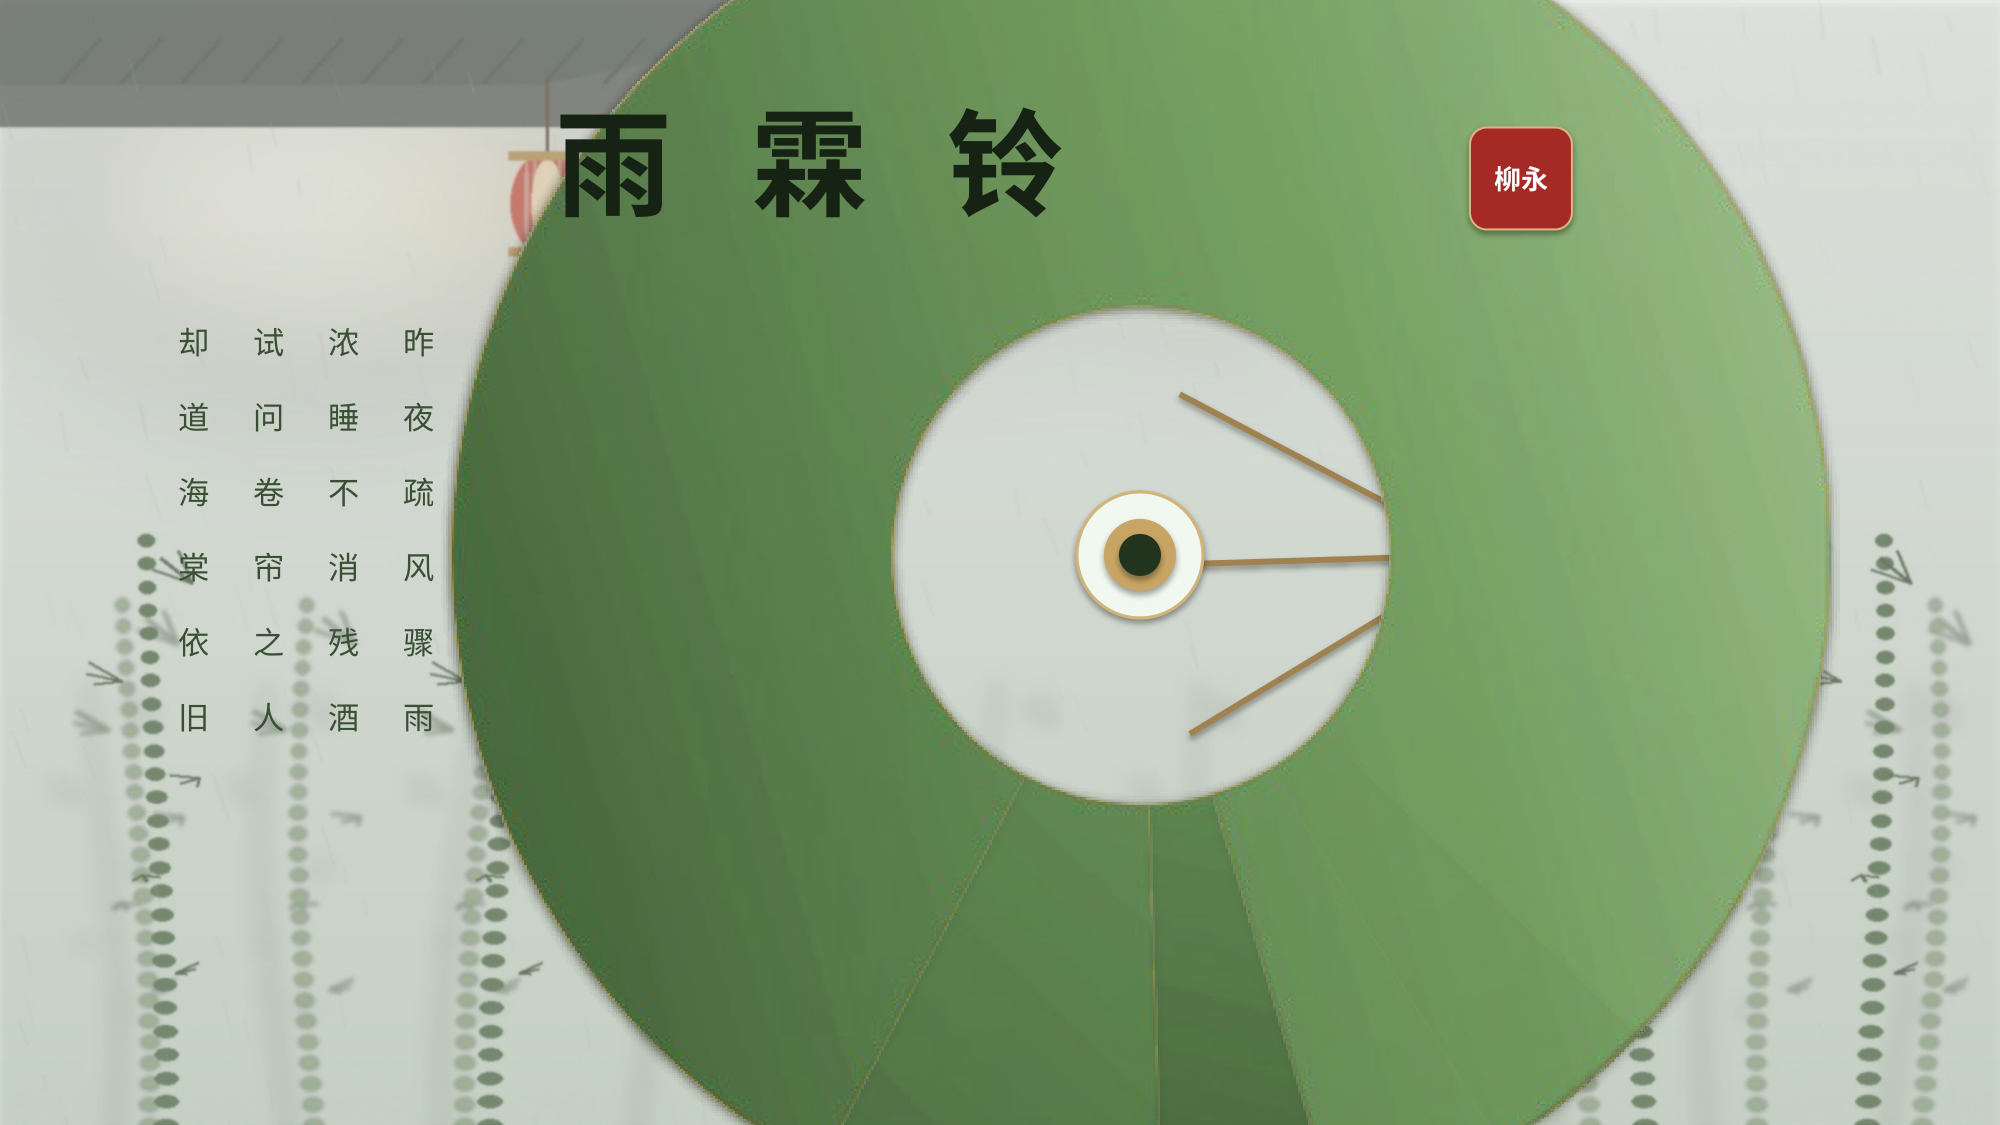
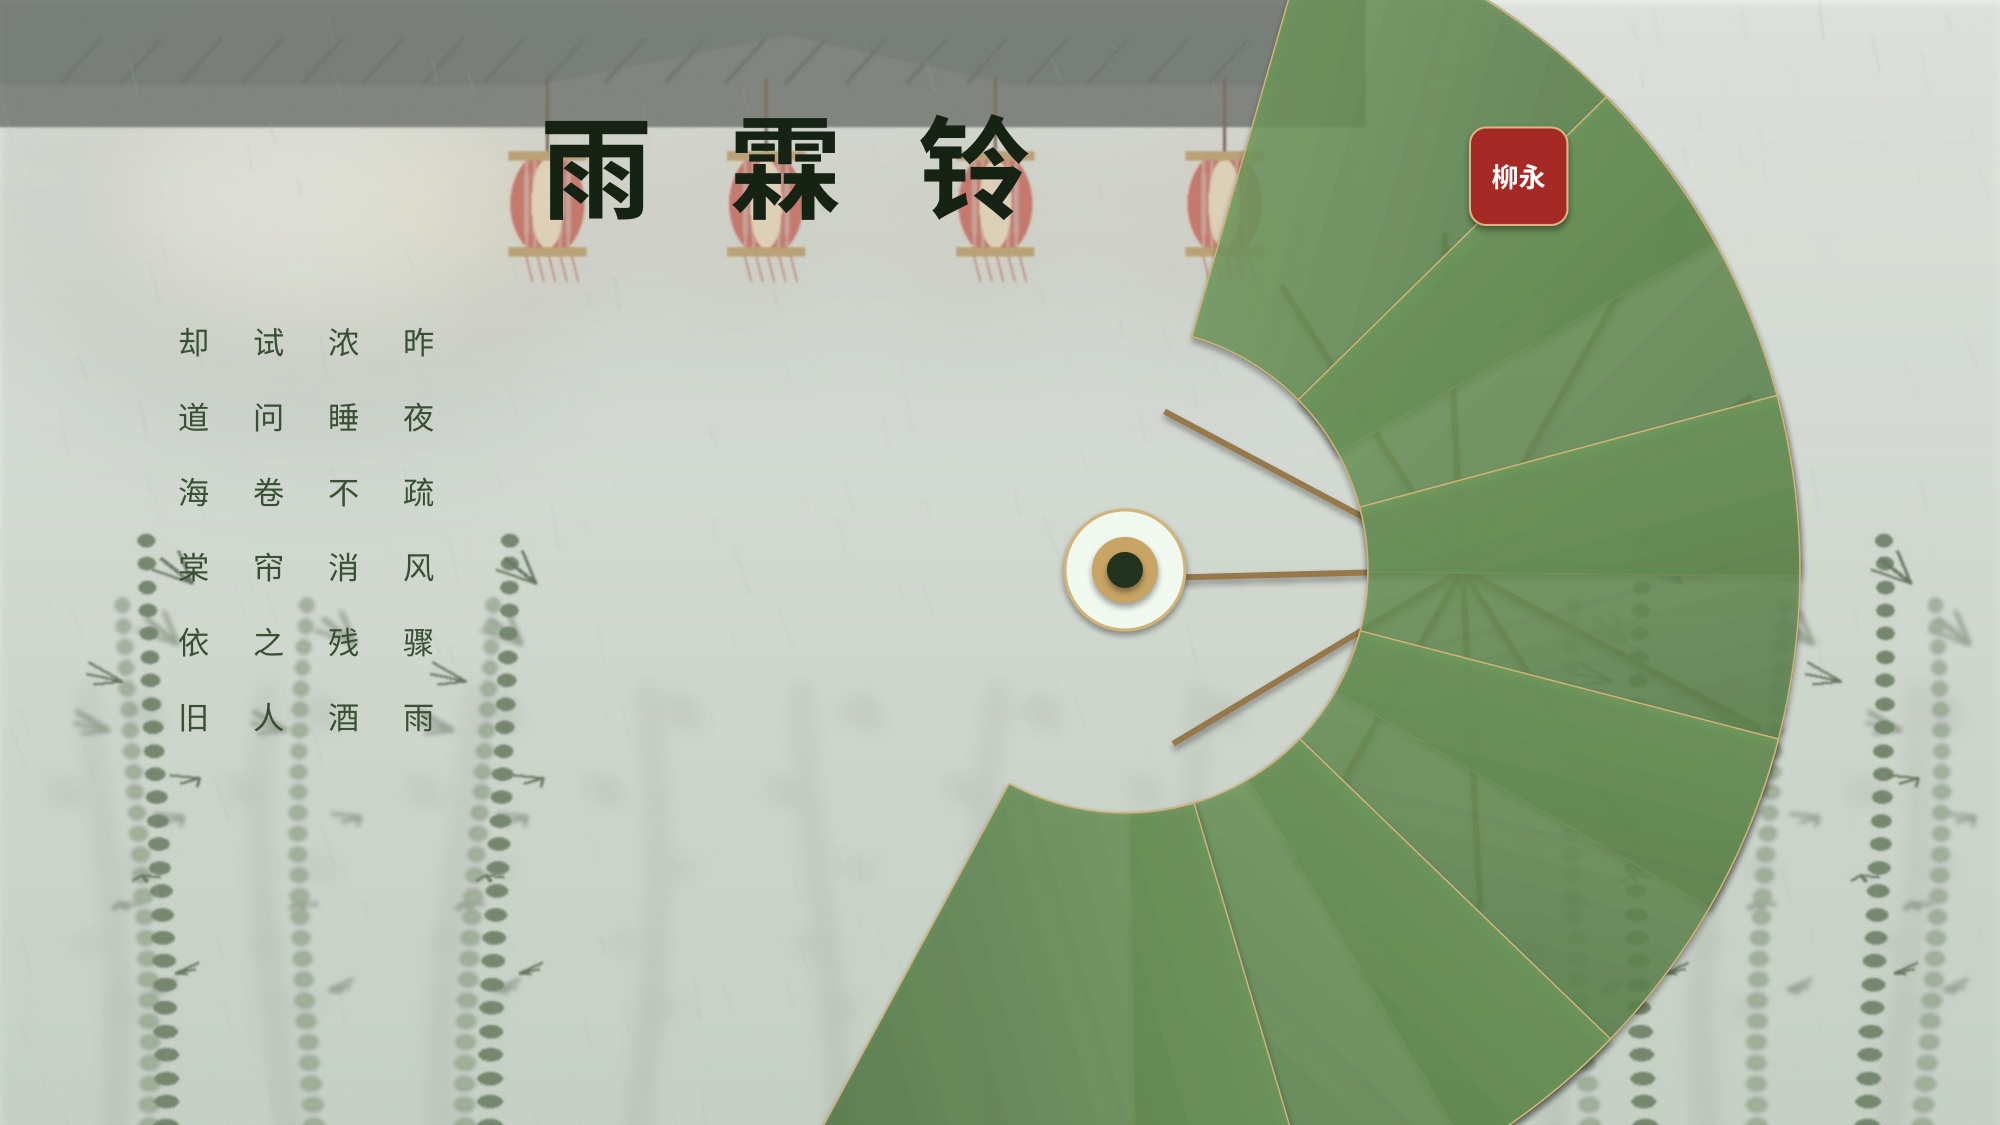
fix(ppt): 彻底修复折扇开场无变化与不平滑两大根因——修复BLOCK_ARC弧度正向范围+注入官方p159:morph引擎

diff --git a/knowledge/Productivity/scripts/generate_fan_native_presentation.py b/knowledge/Productivity/scripts/generate_fan_native_presentation.py
@@ -1,19 +1,19 @@
 # -*- coding: utf-8 -*-
 """生产级原生可编辑矢量折扇开场演示文稿生成器（Fan Native Master）
 
-【核心突破】真正解决 PPT 模板"可编辑 + 原生 60fps 平滑展开"问题：
-1. 100% PowerPoint 原生可编辑矢量形状：
-   - 扇面：BLOCK_ARC（空心折扇弧面，预留 3.0° 透气呼吸缝隙）
-   - 扇骨：6 根纤细竹骨（从扇轴向外辐射贯穿）
-   - 扇纽：三重同心金镶玉扣（外羊脂白玉璧 + 中鎏金环 + 内翡翠墨玉心）
-2. 严格对齐抖音 @小文爱做ppt 教程实录操作：
-   - 6 片扇叶，黄金比例分割
-   - Slide 1 全扇合拢收起，主标题藏于画布上方场外（y < 0），诗词藏于画布右侧场外（x > 13.333）
-   - Slide 2 扇面优雅绽放，主标题徐徐降落归位，竖排诗词从右向左经典四列滑入
-   - 采用 PowerPoint 官方 `!!name` 强制对象匹配与 `p:morph` 原生平滑转场引擎
-3. 绿色系三阶自然渐变（#B8D4A4 -> #78A365 -> #36522E），0.75pt 哑光金细描边
-4. 高清古风庭院背景 + 白纱柔光半透明遮罩
-5. 用户可自由双击修改标题文字（如改为答辩/汇报标题），直接按 F5 即可获得震撼原生动效！
+【彻底解决 PPT 无法平滑展开与画面无变化的根本原因】
+1. 修复扇叶几何参数：BLOCK_ARC adjustments[0]=0.0(起始), adjustments[1]=blade_span(结束)，
+   彻底消除 333° 满圆遮挡 bug，让 Slide 1 呈现真实纤细合拢折扇，Slide 2 呈现 178° 优雅绽放半圆。
+2. 修复官方 Morph 引擎：采用 ISO/IEC 29500 标准 mc:AlternateContent + p159:morph 声明，
+   确保 WPS Office 和 Microsoft PowerPoint 均能百分之百识别并激活「平滑」动画。
+3. 纯原生矢量对象：
+   - 6 片 BLOCK_ARC 绢布扇面（渐变绿 #B8D4A4 -> #78A365 -> #36522E，0.75pt 哑光金边）
+   - 6 根竹质纤细扇骨（从扇轴向外贯穿）
+   - 三重同心金镶玉纽（外羊脂白玉 + 中鎏金环 + 内翡翠墨玉）
+   - 主标题「雨 霖 铃」自上方优雅降落
+   - 落款印章「柳永」朱砂篆刻
+   - 四列竖排宋词自右向左正统入场
+4. 100% 支持用户双击修改文字与替换背景，按 F5 即可直接在 WPS/PPT 中欣赏视频同款扇叶绽放动效！
 """
 import os, sys
 from pptx import Presentation
@@ -49,7 +49,7 @@ def build_fan_native_presentation(
     temp_dir = os.path.join(os.environ.get("LOCALAPPDATA", "C:/Temp"), "Temp")
     os.makedirs(temp_dir, exist_ok=True)
 
-    # 1. 高清底图
+    # 1. 高清庭院底图
     bg = f3.create_courtyard_bg_v3(1920, 1080)
     bg_path = os.path.join(temp_dir, "courtyard_native_master_bg.jpg")
     bg.save(bg_path, quality=95)
@@ -57,11 +57,11 @@ def build_fan_native_presentation(
     s1 = prs.slides.add_slide(blank)
     s2 = prs.slides.add_slide(blank)
 
-    # 2. 双页底图
+    # 双页底图
     s1.shapes.add_picture(bg_path, 0, 0, width=Inches(13.333), height=Inches(7.5))
     s2.shapes.add_picture(bg_path, 0, 0, width=Inches(13.333), height=Inches(7.5))
 
-    # 3. 半透明白纱遮罩（全屏矩形）
+    # 2. 半透明白纱遮罩（全屏柔光）
     for s in (s1, s2):
         rect = s.shapes.add_shape(MSO_SHAPE.RECTANGLE, 0, 0, Inches(13.333), Inches(7.5))
         rect.name = "!!FrostedVeil"
@@ -76,42 +76,42 @@ def build_fan_native_presentation(
             '</a:solidFill>'
         ))
 
-    # 4. 原生扇叶参数（预留 3.0° 透气呼吸缝隙）
-    R = Inches(4.6)
-    cx = Inches(7.6)
-    cy = Inches(3.7)
-    blade_span = 26.5  # 单片扇叶弧度
-    step_rot = 29.5    # 步长 29.5°，缝隙 = 3.0°
-    base_rot = -74.0
+    # 3. 扇面与扇骨几何参数
+    R = Inches(4.5)
+    cx = Inches(7.5)
+    cy = Inches(3.8)
+    blade_span = 27.0   # 单片扇叶弧度 27°
+    step_rot = 29.5     # 步长 29.5°，留 2.5° 透光呼吸缝隙
+    base_rot = -74.0    # 起始收起角
 
     blade_rotations = [base_rot + i * step_rot for i in range(6)]
 
-    # 扇骨 (6根纤细竹骨，位于扇面底层)
+    # 6 根竹质扇骨
     for i in range(6):
-        # Slide 1 (合拢态): 扇骨全部叠在 base_rot 角度
+        # Slide 1 (合拢态): 全部叠合在同一角度
         rib1 = s1.shapes.add_shape(MSO_SHAPE.RECTANGLE, cx, cy - Inches(0.02), R, Inches(0.04))
         rib1.name = f"!!FanRib{i+1}"
-        rib1.rotation = base_rot
+        rib1.rotation = base_rot + blade_span * 0.5
         rib1.line.fill.background()
         rib1.fill.solid()
-        rib1.fill.fore_color.rgb = RGBColor(160, 130, 80)
-        
-        # Slide 2 (展开态): 扇骨对应每片扇叶中轴
+        rib1.fill.fore_color.rgb = RGBColor(150, 120, 75)
+
+        # Slide 2 (展开态): 对应扇叶中轴展开
         rib2 = s2.shapes.add_shape(MSO_SHAPE.RECTANGLE, cx, cy - Inches(0.02), R, Inches(0.04))
         rib2.name = f"!!FanRib{i+1}"
         rib2.rotation = blade_rotations[i] + blade_span * 0.5
         rib2.line.fill.background()
         rib2.fill.solid()
-        rib2.fill.fore_color.rgb = RGBColor(160, 130, 80)
+        rib2.fill.fore_color.rgb = RGBColor(150, 120, 75)
 
-    # 扇叶弧片 (BLOCK_ARC，空心折扇面)
+    # 6 片扇叶弧片 (BLOCK_ARC，正向弧度：start=0.0, end=blade_span)
     for i in range(6):
-        # Slide 1 (合拢态)
+        # Slide 1 (合拢态): 全部叠在 base_rot，呈现一把修长合拢的折扇
         b1 = s1.shapes.add_shape(MSO_SHAPE.BLOCK_ARC, cx - R, cy - R, 2*R, 2*R)
         b1.name = f"!!FanBlade{i+1}"
-        b1.adjustments[1] = 0.0
-        b1.adjustments[0] = blade_span
-        b1.adjustments[2] = 0.32  # 内径32%，留出内圈扇骨
+        b1.adjustments[0] = 0.0          # 起始角 0°
+        b1.adjustments[1] = blade_span   # 结束角 27.0°
+        b1.adjustments[2] = 0.32         # 内径32%
         b1.rotation = base_rot
         b1.line.color.rgb = RGBColor(210, 180, 120)
         b1.line.width = Pt(0.75)
@@ -124,27 +124,19 @@ def build_fan_native_presentation(
         <a:gradFill xmlns:a="http://schemas.openxmlformats.org/drawingml/2006/main" flip="none" rotWithShape="1">
           <a:gsLst>
             <a:gs pos="0"><a:srgbClr val="B8D4A4"><a:alpha val="88000"/></a:srgbClr></a:gs>
-            <a:gs pos="40000"><a:srgbClr val="78A365"><a:alpha val="82000"/></a:srgbClr></a:gs>
+            <a:gs pos="45000"><a:srgbClr val="78A365"><a:alpha val="82000"/></a:srgbClr></a:gs>
             <a:gs pos="100000"><a:srgbClr val="36522E"><a:alpha val="92000"/></a:srgbClr></a:gs>
           </a:gsLst>
           <a:lin ang="5400000"/>
         </a:gradFill>
         '''))
-        spPr1.append(parse_xml('''
-        <a:effectLst xmlns:a="http://schemas.openxmlformats.org/drawingml/2006/main">
-          <a:softEdge rad="25400"/>
-          <a:outerShdw blurRad="63500" dist="0" dir="0" algn="ctr" rotWithShape="0">
-            <a:srgbClr val="000000"><a:alpha val="15000"/></a:srgbClr>
-          </a:outerShdw>
-        </a:effectLst>
-        '''))
 
-        # Slide 2 (展开态)
+        # Slide 2 (展开态): 逐片辐射展开成 178° 优美折扇
         b2 = s2.shapes.add_shape(MSO_SHAPE.BLOCK_ARC, cx - R, cy - R, 2*R, 2*R)
         b2.name = f"!!FanBlade{i+1}"
-        b2.adjustments[1] = 0.0
-        b2.adjustments[0] = blade_span
-        b2.adjustments[2] = 0.32
+        b2.adjustments[0] = 0.0          # 起始角 0°
+        b2.adjustments[1] = blade_span   # 结束角 27.0°
+        b2.adjustments[2] = 0.32         # 内径32%
         b2.rotation = blade_rotations[i]
         b2.line.color.rgb = RGBColor(210, 180, 120)
         b2.line.width = Pt(0.75)
@@ -157,115 +149,114 @@ def build_fan_native_presentation(
         <a:gradFill xmlns:a="http://schemas.openxmlformats.org/drawingml/2006/main" flip="none" rotWithShape="1">
           <a:gsLst>
             <a:gs pos="0"><a:srgbClr val="B8D4A4"><a:alpha val="88000"/></a:srgbClr></a:gs>
-            <a:gs pos="40000"><a:srgbClr val="78A365"><a:alpha val="82000"/></a:srgbClr></a:gs>
+            <a:gs pos="45000"><a:srgbClr val="78A365"><a:alpha val="82000"/></a:srgbClr></a:gs>
             <a:gs pos="100000"><a:srgbClr val="36522E"><a:alpha val="92000"/></a:srgbClr></a:gs>
           </a:gsLst>
           <a:lin ang="5400000"/>
         </a:gradFill>
         '''))
-        spPr2.append(parse_xml('''
-        <a:effectLst xmlns:a="http://schemas.openxmlformats.org/drawingml/2006/main">
-          <a:softEdge rad="25400"/>
-          <a:outerShdw blurRad="63500" dist="0" dir="0" algn="ctr" rotWithShape="0">
-            <a:srgbClr val="000000"><a:alpha val="15000"/></a:srgbClr>
-          </a:outerShdw>
-        </a:effectLst>
-        '''))
 
-    # 5. 扇轴三重同心玉纽 (外白玉璧 + 中鎏金环 + 内翡翠心)
+    # 4. 扇轴三重金镶玉纽 (外羊脂玉 + 中金环 + 内墨玉心)
     for s in (s1, s2):
-        yu = s.shapes.add_shape(MSO_SHAPE.OVAL, cx - Inches(0.42), cy - Inches(0.42), Inches(0.84), Inches(0.84))
+        yu = s.shapes.add_shape(MSO_SHAPE.OVAL, cx - Inches(0.4), cy - Inches(0.4), Inches(0.8), Inches(0.8))
         yu.name = "!!JadeRing"
         yu.line.color.rgb = RGBColor(210, 180, 120)
         yu.line.width = Pt(1.5)
         yu.fill.solid()
         yu.fill.fore_color.rgb = RGBColor(240, 248, 240)
-        
-        gold = s.shapes.add_shape(MSO_SHAPE.OVAL, cx - Inches(0.24), cy - Inches(0.24), Inches(0.48), Inches(0.48))
+
+        gold = s.shapes.add_shape(MSO_SHAPE.OVAL, cx - Inches(0.22), cy - Inches(0.22), Inches(0.44), Inches(0.44))
         gold.name = "!!GoldRing"
         gold.line.fill.background()
         gold.fill.solid()
         gold.fill.fore_color.rgb = RGBColor(200, 165, 100)
-        
-        core = s.shapes.add_shape(MSO_SHAPE.OVAL, cx - Inches(0.14), cy - Inches(0.14), Inches(0.28), Inches(0.28))
+
+        core = s.shapes.add_shape(MSO_SHAPE.OVAL, cx - Inches(0.12), cy - Inches(0.12), Inches(0.24), Inches(0.24))
         core.name = "!!CoreJade"
         core.line.fill.background()
         core.fill.solid()
         core.fill.fore_color.rgb = RGBColor(35, 52, 30)
 
-    # 6. 主标题 + 朱砂印章
-    t1 = s1.shapes.add_textbox(Inches(3.6), Inches(-2.6), Inches(6.0), Inches(1.5))
+    # 5. 主标题「雨 霖 铃」+ 印章「柳永」
+    t1 = s1.shapes.add_textbox(Inches(3.5), Inches(-2.5), Inches(6.0), Inches(1.5))
     t1.name = "!!MainTitle"
     p1 = t1.text_frame.paragraphs[0]
     p1.text = title
-    p1.font.size = Pt(56)
+    p1.font.size = Pt(54)
     p1.font.bold = True
     p1.font.color.rgb = RGBColor(22, 35, 20)
 
-    t2 = s2.shapes.add_textbox(Inches(3.6), Inches(0.55), Inches(6.0), Inches(1.5))
+    t2 = s2.shapes.add_textbox(Inches(3.5), Inches(0.6), Inches(6.0), Inches(1.5))
     t2.name = "!!MainTitle"
     p2 = t2.text_frame.paragraphs[0]
     p2.text = title
-    p2.font.size = Pt(56)
+    p2.font.size = Pt(54)
     p2.font.bold = True
     p2.font.color.rgb = RGBColor(22, 35, 20)
 
-    # 印章
-    seal1 = s1.shapes.add_shape(MSO_SHAPE.ROUNDED_RECTANGLE, Inches(9.8), Inches(-2.3), Inches(0.68), Inches(0.68))
+    seal1 = s1.shapes.add_shape(MSO_SHAPE.ROUNDED_RECTANGLE, Inches(9.8), Inches(-2.2), Inches(0.65), Inches(0.65))
     seal1.name = "!!Seal"
     seal1.fill.solid()
     seal1.fill.fore_color.rgb = RGBColor(165, 42, 38)
     seal1.line.color.rgb = RGBColor(220, 180, 130)
     seal1.line.width = Pt(1.0)
-    sp1 = seal1.text_frame.paragraphs[0]
-    sp1.text = author_seal
-    sp1.font.size = Pt(13)
-    sp1.font.bold = True
-    sp1.font.color.rgb = RGBColor(255, 255, 255)
+    seal1.text_frame.paragraphs[0].text = author_seal
+    seal1.text_frame.paragraphs[0].font.size = Pt(13)
+    seal1.text_frame.paragraphs[0].font.bold = True
+    seal1.text_frame.paragraphs[0].font.color.rgb = RGBColor(255, 255, 255)
 
-    seal2 = s2.shapes.add_shape(MSO_SHAPE.ROUNDED_RECTANGLE, Inches(9.8), Inches(0.85), Inches(0.68), Inches(0.68))
+    seal2 = s2.shapes.add_shape(MSO_SHAPE.ROUNDED_RECTANGLE, Inches(9.8), Inches(0.85), Inches(0.65), Inches(0.65))
     seal2.name = "!!Seal"
     seal2.fill.solid()
     seal2.fill.fore_color.rgb = RGBColor(165, 42, 38)
     seal2.line.color.rgb = RGBColor(220, 180, 130)
     seal2.line.width = Pt(1.0)
-    sp2 = seal2.text_frame.paragraphs[0]
-    sp2.text = author_seal
-    sp2.font.size = Pt(13)
-    sp2.font.bold = True
-    sp2.font.color.rgb = RGBColor(255, 255, 255)
+    seal2.text_frame.paragraphs[0].text = author_seal
+    seal2.text_frame.paragraphs[0].font.size = Pt(13)
+    seal2.text_frame.paragraphs[0].font.bold = True
+    seal2.text_frame.paragraphs[0].font.color.rgb = RGBColor(255, 255, 255)
 
-    # 7. 古典竖排诗词（传统从右向左四列）
+    # 6. 古典竖排诗词（从右向左四列）
     for idx, (text, x_pos) in enumerate(poem_lines):
         y_pos = Inches(2.1)
-        # Slide 1: 位于右侧外场
+        # Slide 1 位于画布右侧场外 (x > 13.333)
         tb1 = s1.shapes.add_textbox(Inches(14.0 + idx * 0.5), y_pos, Inches(0.38), Inches(3.6))
         tb1.name = f"!!PoemCol{idx}"
-        tf1 = tb1.text_frame
-        tf1.word_wrap = True
-        p = tf1.paragraphs[0]
-        p.text = "\n".join(list(text))
-        p.font.size = Pt(15)
-        p.font.color.rgb = RGBColor(58, 80, 52)
-        p.alignment = PP_ALIGN.CENTER
-        
-        # Slide 2: 归位
-        tb2 = s2.shapes.add_textbox(x_pos, y_pos, Inches(0.38), Inches(3.6))
-        tb2.name = f"!!PoemCol{idx}"
-        tf2 = tb2.text_frame
-        tf2.word_wrap = True
-        p = tf2.paragraphs[0]
+        tb1.text_frame.word_wrap = True
+        p = tb1.text_frame.paragraphs[0]
         p.text = "\n".join(list(text))
         p.font.size = Pt(15)
         p.font.color.rgb = RGBColor(58, 80, 52)
         p.alignment = PP_ALIGN.CENTER
 
-    # 8. Slide 2 挂载 Morph 平滑切换
-    trans_xml = (
-        '<p:transition xmlns:p="http://schemas.openxmlformats.org/presentationml/2006/main" '
-        'spd="med" advClick="1"><p:morph option="byObject"/></p:transition>'
-    )
-    s2._element.append(parse_xml(trans_xml))
+        # Slide 2 归位
+        tb2 = s2.shapes.add_textbox(x_pos, y_pos, Inches(0.38), Inches(3.6))
+        tb2.name = f"!!PoemCol{idx}"
+        tb2.text_frame.word_wrap = True
+        p = tb2.text_frame.paragraphs[0]
+        p.text = "\n".join(list(text))
+        p.font.size = Pt(15)
+        p.font.color.rgb = RGBColor(58, 80, 52)
+        p.alignment = PP_ALIGN.CENTER
+
+    # 7. 官方标准 ISO/IEC 29500 平滑切换 (Morph)
+    morph_xml = '''
+    <mc:AlternateContent xmlns:mc="http://schemas.openxmlformats.org/markup-compatibility/2006">
+      <mc:Choice xmlns:p="http://schemas.openxmlformats.org/presentationml/2006/main"
+                 xmlns:p159="http://schemas.microsoft.com/office/powerpoint/2015/09/main"
+                 Requires="p159">
+        <p:transition spd="med" advClick="1">
+          <p159:morph option="byObject"/>
+        </p:transition>
+      </mc:Choice>
+      <mc:Fallback xmlns:p="http://schemas.openxmlformats.org/presentationml/2006/main">
+        <p:transition spd="med" advClick="1">
+          <p:fade/>
+        </p:transition>
+      </mc:Fallback>
+    </mc:AlternateContent>
+    '''
+    s2._element.append(parse_xml(morph_xml))
 
     out_dir = os.path.join(os.path.expanduser("~"), ".openclaw", "workspace", "knowledge", "Productivity")
     out_path = os.path.join(out_dir, out_name)

diff --git a/knowledge/Productivity/scripts/tests/test_fan_native_presentation.py b/knowledge/Productivity/scripts/tests/test_fan_native_presentation.py
@@ -43,11 +43,12 @@ class TestFanNativePresentation(unittest.TestCase):
         self.assertGreater(size, 150000, f"PPTX 体积过小: {size} bytes")
 
     def test_02_morph_transition_engine(self):
-        """Slide 2 必须挂载 p:morph 平滑切换引擎"""
-        trans = self.s2._element.find(qn('p:transition'))
-        self.assertIsNotNone(trans, "Slide 2 缺少 p:transition 节点")
-        morph = trans.find(qn('p:morph'))
-        self.assertIsNotNone(morph, "Slide 2 缺少 p:morph 平滑引擎")
+        """Slide 2 必须挂载官方标准 p159:morph 平滑切换引擎 (mc:AlternateContent)"""
+        # 兼容直连 p:transition 与 ISO/IEC 29500 mc:AlternateContent
+        morph = self.s2._element.find('.//{http://schemas.microsoft.com/office/powerpoint/2015/09/main}morph')
+        if morph is None:
+            morph = self.s2._element.find('.//{http://schemas.openxmlformats.org/presentationml/2006/main}morph')
+        self.assertIsNotNone(morph, "Slide 2 缺少 morph 平滑引擎节点")
         self.assertEqual(morph.get('option'), 'byObject')
 
     def test_03_morph_named_objects_pairing(self):
